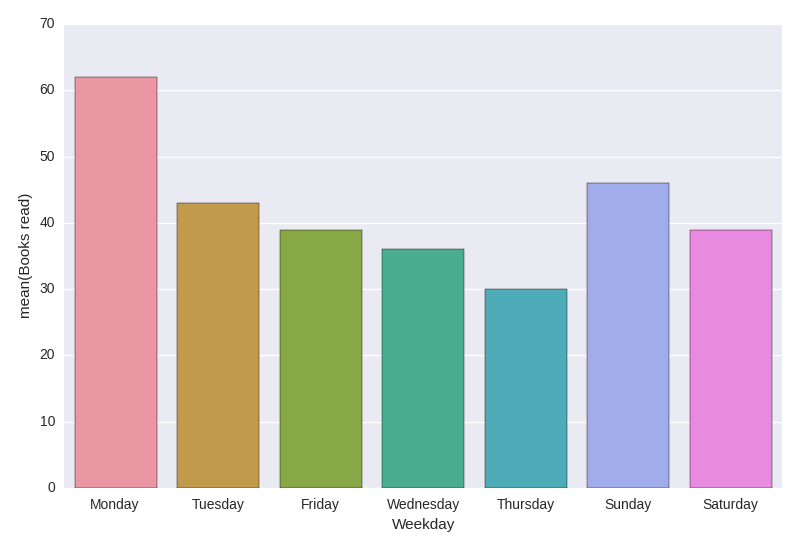
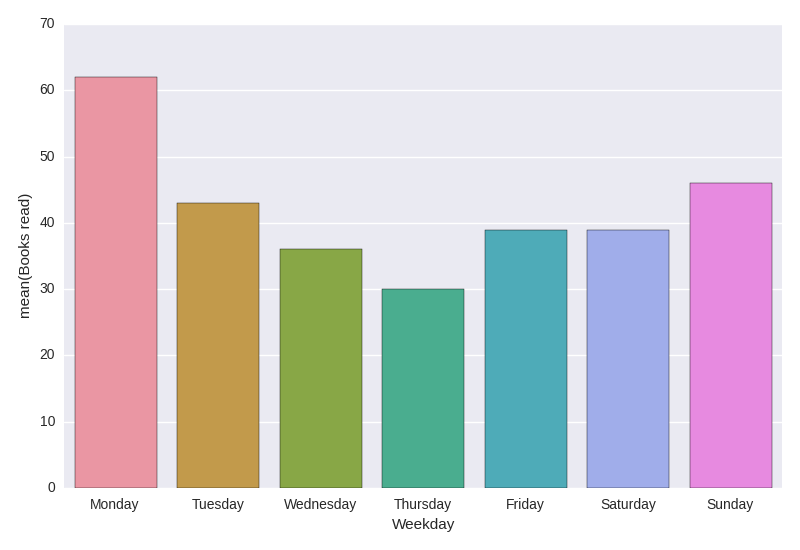
Fixes the order of weekdays

diff --git a/plotBooksreadVsWeekday.py b/plotBooksreadVsWeekday.py
@@ -2,14 +2,18 @@ import pandas as pd
 import matplotlib.pyplot as plt
 import seaborn as sns
 import calendar
-from collections import defaultdict
+from collections import OrderedDict
 
 if __name__ == "__main__":
     df = pd.read_csv("./goodreads_export.csv")
     dates = df.xs("Date Read",axis=1).dropna()
     dates = pd.to_datetime(dates)
 
-    read_dict = defaultdict(int) # key: weekday, value: count of books read
+    # initialize the dict in the correct order
+    read_dict = OrderedDict() # key: weekday, value: count of books read
+    for day in range(0,7):
+        read_dict[calendar.day_name[day]] = 0
+
     for date in dates:
         weekday_name = calendar.day_name[date.weekday()]  # Sunday
         read_dict[weekday_name] += 1
